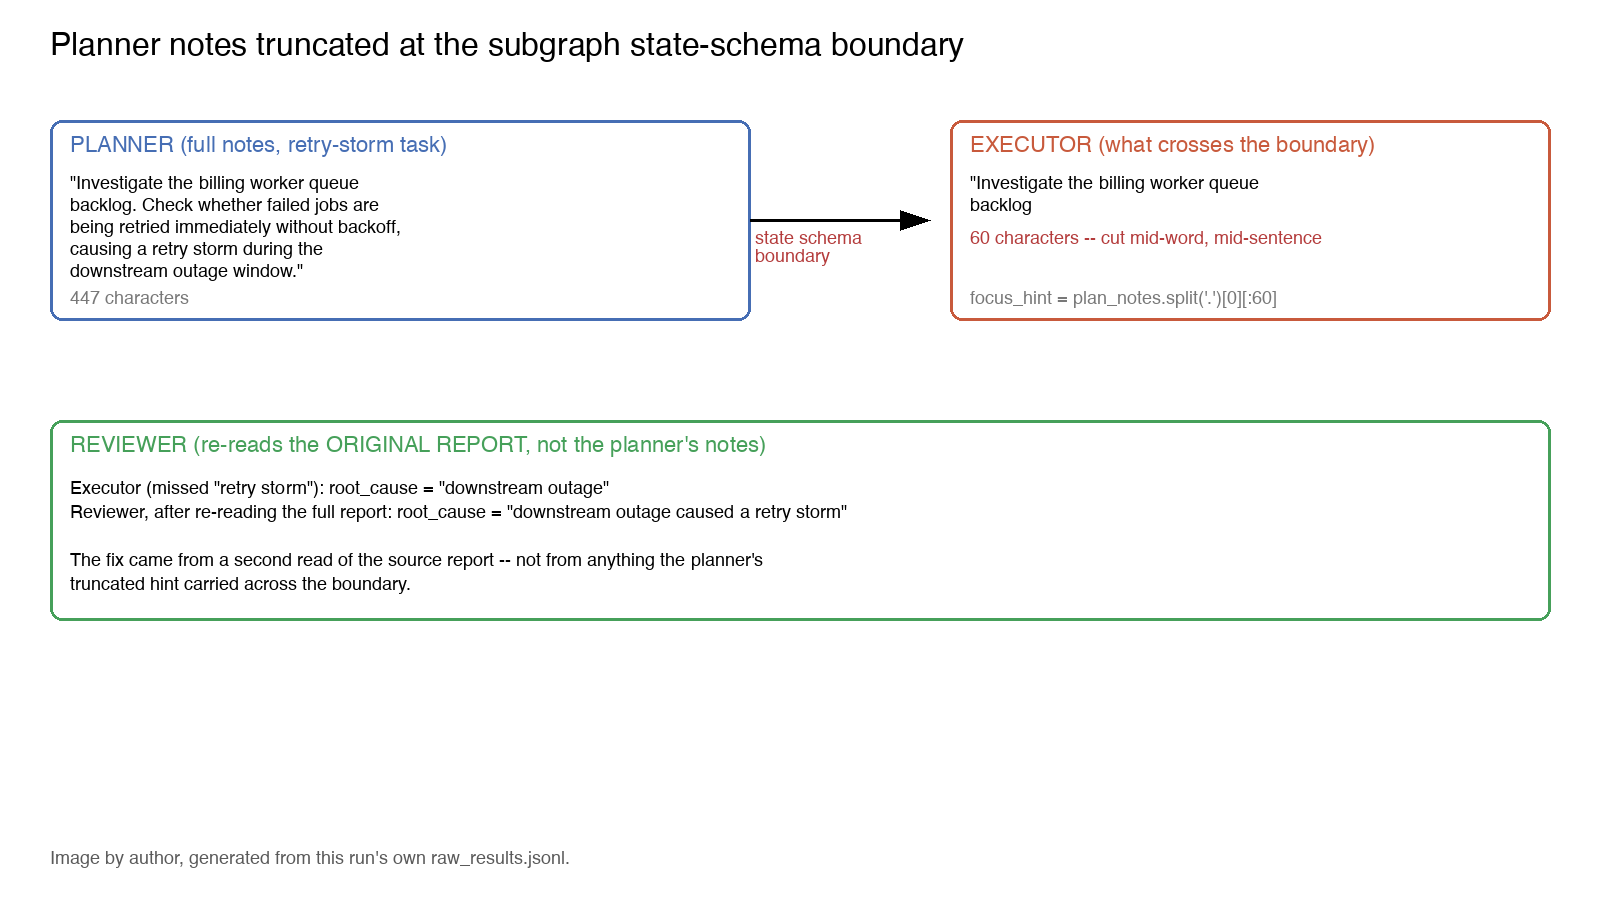
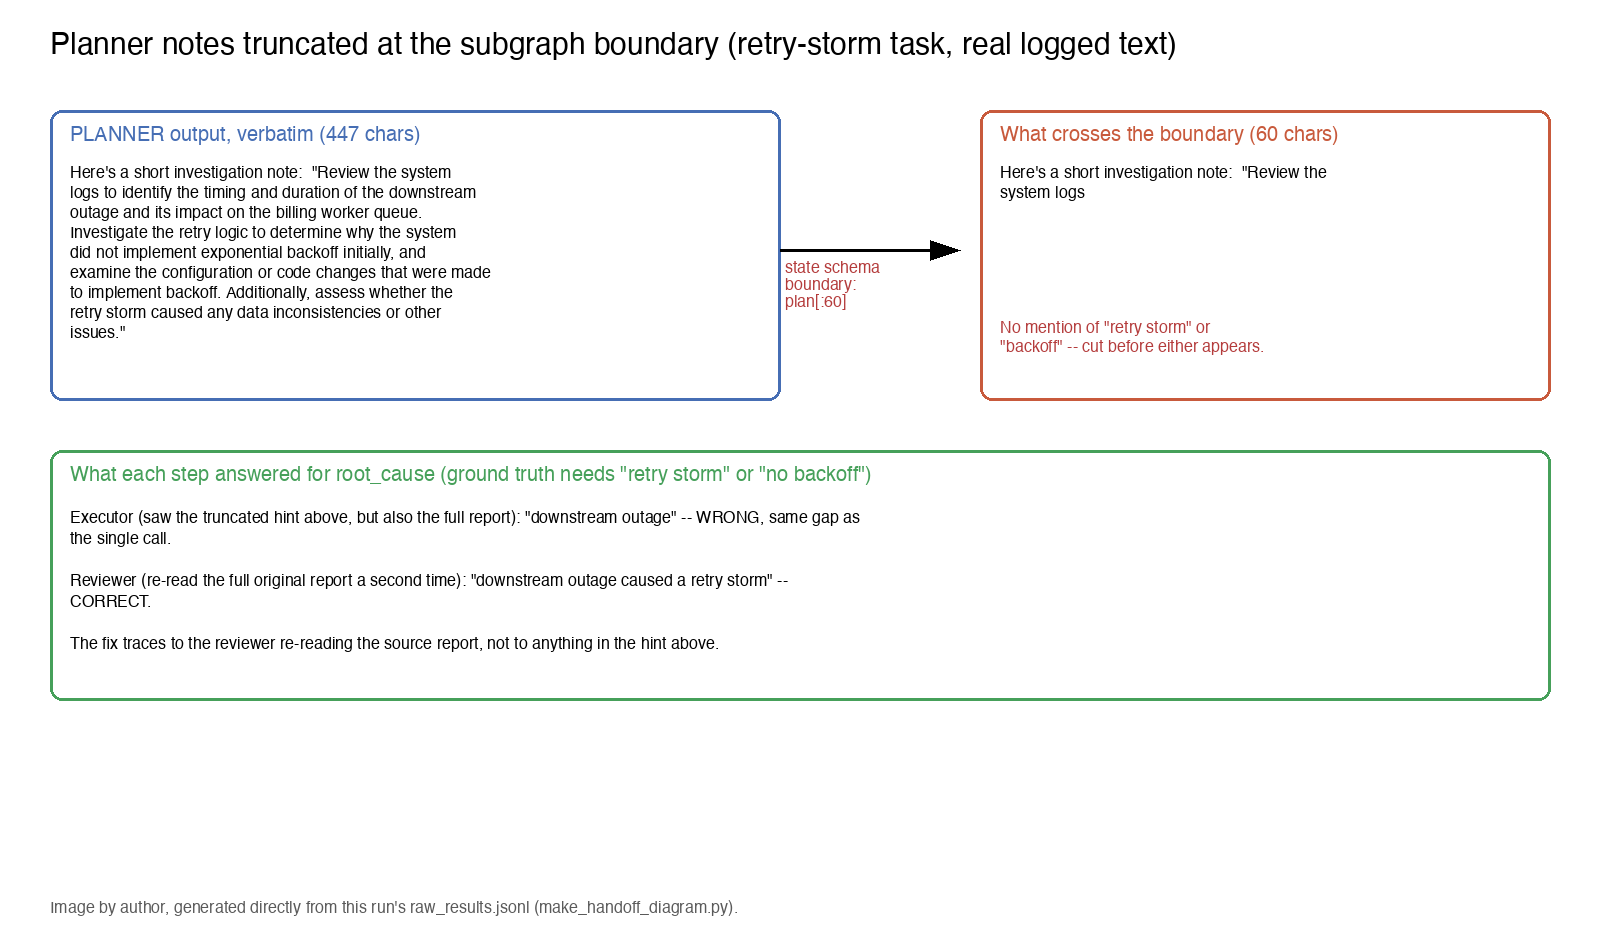
Fix verbatim quotes, add missed third flip (feature-flag-leak), correct redis-pool hint claim

diff --git a/make_handoff_diagram.py b/make_handoff_diagram.py
@@ -1,56 +1,65 @@
+import json
+import textwrap
 from PIL import Image, ImageDraw, ImageFont
 
-W, H = 1600, 900
+rows = {json.loads(l)["id"]: json.loads(l) for l in open("raw_results.jsonl")}
+r = rows["retry-storm"]
+plan_text = r["condition_b"]["plan_text"]
+hint = r["condition_b"]["focus_hint"]
+plan_len = r["condition_b"]["plan_len"]
+hint_len = r["condition_b"]["hint_len"]
+exec_root_cause = r["condition_b"]["executor_answer"]["root_cause"]
+final_root_cause = r["condition_b"]["answer"]["root_cause"]
+
+W, H = 1600, 950
 img = Image.new("RGB", (W, H), "white")
 d = ImageDraw.Draw(img)
 
 try:
-    f_title = ImageFont.truetype("/System/Library/Fonts/Helvetica.ttc", 32)
-    f_label = ImageFont.truetype("/System/Library/Fonts/Helvetica.ttc", 22)
-    f_body = ImageFont.truetype("/System/Library/Fonts/Helvetica.ttc", 18)
+    f_title = ImageFont.truetype("/System/Library/Fonts/Helvetica.ttc", 30)
+    f_label = ImageFont.truetype("/System/Library/Fonts/Helvetica.ttc", 20)
+    f_body = ImageFont.truetype("/System/Library/Fonts/Helvetica.ttc", 16)
 except Exception:
     f_title = f_label = f_body = ImageFont.load_default()
 
-d.text((50, 30), "Planner notes truncated at the subgraph state-schema boundary", fill="black", font=f_title)
+d.text((50, 30), "Planner notes truncated at the subgraph boundary (retry-storm task, real logged text)", fill="black", font=f_title)
 
 # Planner box
-d.rounded_rectangle([50, 120, 750, 320], radius=12, outline=(70, 110, 180), width=3)
-d.text((70, 135), "PLANNER (full notes, retry-storm task)", fill=(70, 110, 180), font=f_label)
-plan_text = (
-    "\"Investigate the billing worker queue\n"
-    "backlog. Check whether failed jobs are\n"
-    "being retried immediately without backoff,\n"
-    "causing a retry storm during the\n"
-    "downstream outage window.\""
-)
-d.multiline_text((70, 175), plan_text, fill="black", font=f_body, spacing=8)
-d.text((70, 290), "447 characters", fill=(120, 120, 120), font=f_body)
+d.rounded_rectangle([50, 110, 780, 400], radius=12, outline=(70, 110, 180), width=3)
+d.text((70, 125), f"PLANNER output, verbatim ({plan_len} chars)", fill=(70, 110, 180), font=f_label)
+wrapped_plan = "\n".join(textwrap.wrap(plan_text, width=58))
+d.multiline_text((70, 165), wrapped_plan, fill="black", font=f_body, spacing=7)
 
 # Arrow + boundary
-d.line([750, 220, 900, 220], fill="black", width=3)
-d.polygon([(900, 210), (930, 220), (900, 230)], fill="black")
-d.text((755, 230), "state schema\nboundary", fill=(180, 60, 60), font=f_body)
+d.line([780, 250, 930, 250], fill="black", width=3)
+d.polygon([(930, 240), (960, 250), (930, 260)], fill="black")
+d.text((785, 260), "state schema\nboundary:\nplan[:60]", fill=(180, 60, 60), font=f_body)
 
 # Executor box
-d.rounded_rectangle([950, 120, 1550, 320], radius=12, outline=(200, 90, 60), width=3)
-d.text((970, 135), "EXECUTOR (what crosses the boundary)", fill=(200, 90, 60), font=f_label)
-hint_text = '"Investigate the billing worker queue\nbacklog'
-d.multiline_text((970, 175), hint_text, fill="black", font=f_body, spacing=8)
-d.text((970, 230), "60 characters -- cut mid-word, mid-sentence", fill=(180, 60, 60), font=f_body)
-d.text((970, 290), "focus_hint = plan_notes.split('.')[0][:60]", fill=(120, 120, 120), font=f_body)
+d.rounded_rectangle([980, 110, 1550, 400], radius=12, outline=(200, 90, 60), width=3)
+d.text((1000, 125), f"What crosses the boundary ({hint_len} chars)", fill=(200, 90, 60), font=f_label)
+wrapped_hint = "\n".join(textwrap.wrap(hint, width=48))
+d.multiline_text((1000, 165), wrapped_hint, fill="black", font=f_body, spacing=7)
+d.text((1000, 320), "No mention of \"retry storm\" or\n\"backoff\" -- cut before either appears.", fill=(180, 60, 60), font=f_body, spacing=6)
 
-# Reviewer box
-d.rounded_rectangle([50, 420, 1550, 620], radius=12, outline=(70, 160, 90), width=3)
-d.text((70, 435), "REVIEWER (re-reads the ORIGINAL REPORT, not the planner's notes)", fill=(70, 160, 90), font=f_label)
-rev_text = (
-    "Executor (missed \"retry storm\"): root_cause = \"downstream outage\"\n"
-    "Reviewer, after re-reading the full report: root_cause = \"downstream outage caused a retry storm\"\n\n"
-    "The fix came from a second read of the source report -- not from anything the planner's\n"
-    "truncated hint carried across the boundary."
+# Results box
+d.rounded_rectangle([50, 450, 1550, 700], radius=12, outline=(70, 160, 90), width=3)
+d.text((70, 465), "What each step answered for root_cause (ground truth needs \"retry storm\" or \"no backoff\")", fill=(70, 160, 90), font=f_label)
+res_text = (
+    f"Executor (saw the truncated hint above, but also the full report): \"{exec_root_cause}\" -- WRONG, same gap as the single call.\n\n"
+    f"Reviewer (re-read the full original report a second time): \"{final_root_cause}\" -- CORRECT.\n\n"
+    "The fix traces to the reviewer re-reading the source report, not to anything in the hint above."
 )
-d.multiline_text((70, 480), rev_text, fill="black", font=f_body, spacing=10)
+wrapped_res = "\n".join(
+    "\n".join(textwrap.wrap(line, width=110)) if line.strip() else ""
+    for line in res_text.split("\n")
+)
+d.multiline_text((70, 510), wrapped_res, fill="black", font=f_body, spacing=8)
 
-d.text((50, 850), "Image by author, generated from this run's own raw_results.jsonl.", fill=(90, 90, 90), font=f_body)
+d.text((50, 900), "Image by author, generated directly from this run's raw_results.jsonl (make_handoff_diagram.py).", fill=(90, 90, 90), font=f_body)
 
 img.save("handoff-diagram-arc5.png")
 print("saved handoff-diagram-arc5.png")
+print("plan_len", plan_len, "hint_len", hint_len)
+print("exec root_cause:", exec_root_cause)
+print("final root_cause:", final_root_cause)

diff --git a/analysis.md b/analysis.md
@@ -2,35 +2,46 @@
 
 ## Where the accuracy gain actually came from
 
-Two tasks flipped from wrong (missing `root_cause`) under the single call to fully correct under
-the pipeline: `redis-pool` and `retry-storm`. `raw_results.jsonl` logs the executor's intermediate
-answer separately from the reviewer's final answer, so it is possible to check exactly which step
-produced each fix rather than assuming it was the reviewer.
+Three individual fields, across three different tasks, flipped from wrong to right between
+Condition A (single call) and Condition B (the pipeline): `redis-pool`, `retry-storm`, and
+`feature-flag-leak`. `raw_results.jsonl` logs the executor's intermediate answer separately from
+the reviewer's final answer for every task, specifically so it is possible to check which step
+produced each fix rather than assuming.
 
-- **`redis-pool`**: the executor's own answer (before the reviewer ever saw it) already named
-  "Redis connection pool exhaustion" correctly. The 60-character `focus_hint` it received was cut
-  off mid-sentence and contributed nothing useful -- the executor recovered the right answer by
-  reading the full original report, which it was given in addition to the degraded hint.
-- **`retry-storm`**: the executor's answer was wrong ("downstream outage", missing "retry storm").
-  The reviewer step, re-reading the full report a second time, corrected it to "downstream outage
-  caused a retry storm" and passed.
+The executor stage alone, before the reviewer ever runs, already scores **32/36 (88.9%)** --
+measured directly from the saved `executor_answer` field, not inferred. The reviewer's final pass
+adds exactly one more field, to 33/36 (91.7%). Two of the three fixes happened at the executor
+stage; one needed the reviewer.
 
-So the two flips are not both "the reviewer did it." One flip happened at the executor stage
-despite the broken hint, and one needed the reviewer's second pass. What they share is the real
-finding: **both corrections trace to a step reading the original source report closely, never to
-anything the planner's truncated note carried across the subgraph boundary.** The planner step,
-measured against what it produced, earned nothing this run -- not because planning is inherently
-useless, but because this pipeline's state schema discarded the planner's output before the next
-step could use it.
+They also did not all resolve the same way with respect to the planner's hint:
+
+- **`feature-flag-leak`** (see `failure_examples/feature-flag-leak-flip.md`): the hint that
+  crossed the boundary was 100% boilerplate preamble -- zero task-specific content. The executor
+  still got `root_cause` right, from reading the full original report.
+- **`retry-storm`** (see `failure_examples/retry-storm-flip.md`): the hint was semi-generic
+  ("review the system logs"), not pure boilerplate but not specific either. The executor still
+  got it wrong. The reviewer, re-reading the full report a second time, corrected it. This is the
+  one fix that specifically needed the reviewer.
+- **`redis-pool`** (see `failure_examples/redis-pool-flip.md`): the honest complication. This
+  hint happened to contain "Redis connection pool" -- the exact phrase the grader needed --
+  because the planner's sentence led with it before the 60-character cutoff landed. This fix
+  cannot be cleanly attributed to "re-reading beat the hint," since the hint itself carried the
+  right words this time, by accident of sentence structure rather than by design.
 
 ## What this does and does not support
 
+Put together: two of the three fixes happened with hints that demonstrably contributed nothing,
+and the executor's own full-report read (independent of the hint) already accounts for most of
+the pipeline's total gain (32/36 of the 33/36 final score). The planner step, measured honestly,
+did not earn anything *reliable* this run -- its one plausible contribution (`redis-pool`)
+depended on where a sentence happened to break, not on the architecture working as designed.
+
 A 12-task local run on one model is not evidence that multi-agent pipelines are generally good or
 bad. What it does support, narrowly: a step that gives a model a second, focused look at the
-original source material can catch mistakes a first pass makes, and that is a real, measurable
-effect here (83.3% -> 91.7% field accuracy) -- paid for at 4.4x the tokens and 5.7x the latency.
-A planning step whose output does not survive its own pipeline's state schema is not free: it
-still costs a full LLM call, and in this run it demonstrably changed nothing.
+original source material can catch mistakes a first pass makes, and that effect is real here
+(83.3% -> 91.7% field accuracy) -- paid for at 4.4x the tokens and 5.7x the latency. A planning
+step whose output does not survive its own pipeline's state schema is not free: it still costs a
+full LLM call, and in this run it demonstrably changed nothing reliable.
 
 Before adding a planning step to any real pipeline, the concrete, checkable question is not
 "would more structure help" -- it is "what, specifically, needs to survive from this step to the
@@ -47,6 +58,19 @@ across sessions on this machine -- it was gone before this repository existed, a
 recovered or verified. Rather than publish numbers that can no longer be substantiated, the
 article was updated to use this run's numbers, which are the ones in this repository, fully
 re-runnable from `tasks.py` and `run_bench.py`. The direction and shape of the finding (pipeline
-beats single-call; handoff loss on every task; the gain traces to source re-reading, not the
-planner) held across both runs. The specific percentages did not, which is exactly why they are
-not worth trusting unless they are saved somewhere durable the first time.
+beats single-call; handoff loss on every task; the gain traces mostly to source re-reading, not
+the planner) held across both runs. The specific percentages did not, which is exactly why they
+are not worth trusting unless they are saved somewhere durable the first time.
+
+## A second process note: an independent fact-check caught real errors here too
+
+An independent Codex pass fact-checked this experiment's first write-up (before this file's
+current version) and found genuine problems beyond the numbers: the retry-storm planner note and
+hint quoted in the draft and diagram were hand-paraphrased to match the fixture's theme instead of
+pulled verbatim from `raw_results.jsonl`; a third flipped field (`feature-flag-leak`) was missed
+because only tasks that flipped to "all 3 fields correct" were checked, not every individual field
+delta; and the claim that the `redis-pool` hint was "useless" was flatly wrong -- it contains the
+exact phrase needed. All three are fixed in this version: the diagram (`make_handoff_diagram.py`)
+now reads `raw_results.jsonl` programmatically instead of hardcoding quoted text, all three flips
+have their own `failure_examples/` file, and `redis-pool-flip.md` states the complication plainly
+instead of silently dropping it.

diff --git a/failure_examples/redis-pool-flip.md b/failure_examples/redis-pool-flip.md
@@ -1,4 +1,4 @@
-# redis-pool: wrong under single call, right under pipeline (executor stage, not reviewer)
+# redis-pool: wrong under single call, right under pipeline (executor stage)
 
 **Report:** Checkout API pods began returning 500s during the 14:00 feature-flag rollout. Logs
 show the Redis connection pool was exhausted shortly after the flag enabled a new caching path.
@@ -7,19 +7,29 @@ The on-call engineer rolled back the flag and restarted the affected pods to rec
 **Single call:** `root_cause = "feature-flag rollout"` -- missing "redis" / "connection pool" /
 "exhaust". Graded wrong.
 
-**Pipeline, planner's full note (428 chars):** investigation plan mentioning Redis pool settings
-and logs explicitly.
+**Pipeline, planner's full note (428 chars):** "Review the Redis connection pool configuration
+and logs to determine if the exhaustion was caused by a sudden increase in traffic or a
+misconfiguration. Check the caching path configuration and its interaction with the Redis
+connection pool to identify any potential issues. Also, examine the pod restart and rollback
+process to ensure it was executed correctly and didn't introduce any additional errors."
 
-**Pipeline, what crossed the boundary (`focus_hint`, 60 chars):** truncated mid-sentence, before
-the word "Redis" appears in the planner's note.
+**Pipeline, what crossed the boundary (`focus_hint`, 60 chars, verbatim):** "Review the Redis
+connection pool confi" (truncated mid-word).
+
+**Honest complication, stated plainly:** unlike `retry-storm` and `feature-flag-leak` below, this
+hint is NOT useless -- it happens to contain "Redis connection pool," the exact phrase the grader
+needed, because the planner's sentence led with that phrase before the 60-character cutoff
+landed. This is an accident of where a sentence break fell, not something the pipeline's schema
+was designed to guarantee.
 
 **Pipeline, executor's answer (before the reviewer saw it):** `root_cause = "Redis connection pool
-exhaustion"` -- already correct. The executor recovered this from the full report text it was
-given directly, not from the hint.
+exhaustion"` -- already correct.
 
 **Pipeline, reviewer's final answer:** added the feature-flag timing detail but did not change
 the grade -- it was already correct at the executor stage.
 
-**Takeaway:** this flip is not evidence the planner or the reviewer specifically fixed anything.
-It is evidence that giving the model a second structured pass at the same source material (even
-with a broken hint attached) can surface detail a single, less-scaffolded call missed.
+**Takeaway:** this flip cannot be cleanly attributed to "re-reading beat the hint," because the
+hint itself happened to carry the right words this time. It is included here specifically so the
+repository does not quietly drop the one case that complicates the article's main claim. See
+`retry-storm-flip.md` and `feature-flag-leak-flip.md` for the two cases where the hint
+demonstrably contributed nothing.

diff --git a/failure_examples/retry-storm-flip.md b/failure_examples/retry-storm-flip.md
@@ -1,20 +1,32 @@
-# retry-storm: wrong under single call, right under pipeline (reviewer stage specifically)
+# retry-storm: wrong under single call AND executor, right only after the reviewer
 
 **Report:** The billing worker queue backed up for twenty minutes during a downstream outage. A
 retry storm formed because failed jobs were retried immediately with no backoff. Adding
 exponential backoff to the retry logic stopped the storm.
 
-**Single call:** `root_cause = "downstream outage"` -- missing "retry storm" / "no backoff".
-Graded wrong.
+**Single call:** `root_cause = "downstream outage"` -- missing "retry storm" / "no backoff" /
+"immediate retry". Graded wrong.
 
-**Pipeline, executor's answer:** `root_cause = "downstream outage"` -- same gap, still wrong.
-The 60-character `focus_hint` it received did not help.
+**Pipeline, planner's full note (447 chars, verbatim):** "Here's a short investigation note:
+'Review the system logs to identify the timing and duration of the downstream outage and its
+impact on the billing worker queue. Investigate the retry logic to determine why the system did
+not implement exponential backoff initially, and examine the configuration or code changes that
+were made to implement backoff. Additionally, assess whether the retry storm caused any data
+inconsistencies or other issues.'"
+
+**Pipeline, what crossed the boundary (`focus_hint`, 60 chars, verbatim):** "Here's a short
+investigation note: 'Review the system logs" -- cut before "retry storm" or "backoff" ever
+appear, despite both words being present in the planner's full note just beyond the cutoff.
+
+**Pipeline, executor's answer:** `root_cause = "downstream outage"` -- same gap as the single
+call, still wrong. The hint did not help, and could not have, since it is pure preamble by the
+point it gets cut.
 
 **Pipeline, reviewer's final answer:** `root_cause = "downstream outage caused a retry storm"` --
 corrected. The reviewer was given the full original report a second time, independent of the
 planner's note or the executor's first answer, and that second read is what fixed it.
 
 **Takeaway:** this is the one flip in the whole run that is specifically attributable to the
-reviewer step, not the executor or the (broken) hint. It is also the clearest single piece of
-evidence for the article's claim that the reviewer's value came from re-reading the source, not
-from critiquing the executor's JSON in isolation.
+reviewer step, not the executor or the (broken) hint, and the clearest single piece of evidence
+for the article's claim that a review step's value comes from re-reading the source, not from
+critiquing the prior step's JSON in isolation.

diff --git a/failure_examples/feature-flag-leak-flip.md b/failure_examples/feature-flag-leak-flip.md
@@ -1,0 +1,36 @@
+# feature-flag-leak: wrong under single call, right under pipeline, with a 100% boilerplate hint
+
+**Report:** A small subset of logged-out users briefly saw another account's cart contents. A
+feature-flag targeting rule leaked a cached user-session key across requests when the flag
+evaluator reused a shared cache entry by mistake. Scoping the cache key to the session ID fixed
+the leak.
+
+**Single call:** `root_cause = "feature-flag targeting rule"` -- missing "cache key" / "shared
+cache" / "leak". Graded wrong.
+
+**Pipeline, planner's full note (552 chars):** a detailed investigation plan covering the caching
+mechanism, the feature-flag targeting rule, and the shared cache entry -- genuinely relevant
+content, all of it lost at the boundary below.
+
+**Pipeline, what crossed the boundary (`focus_hint`, 60 chars, verbatim):** "Here's a short
+investigation note: **Investigation Note**" -- this is 100% preamble. No task-specific content
+survived at all. This is the cleanest "useless hint" case in the entire run.
+
+**Pipeline, executor's answer (before the reviewer saw it):** `root_cause = "feature-flag
+targeting rule leak due to shared cache entry reuse"` -- correct, despite the hint carrying
+nothing. It got there from the full original report alone, which the executor receives in
+addition to the hint.
+
+**Pipeline, reviewer's final answer:** unchanged from the executor's -- already correct, nothing
+to fix.
+
+**Note on the `affected_component` field:** both the single call and the pipeline answered "cache"
+for this field, which is accurate but too general for the grader's required "feature-flag
+evaluator" / "session" keywords, so this task's overall 3-field grade stayed incomplete in both
+conditions even though `root_cause` flipped. See `still-wrong-in-both.md` for the grader-precision
+pattern this illustrates.
+
+**Takeaway:** together with `redis-pool-flip.md`, this is the strongest evidence that an executor
+reading the full source material can recover a correct answer even when the planner's hint
+carries zero information -- the fix traces to the report, not to anything that survived the
+handoff.

diff --git a/README.md b/README.md
@@ -17,11 +17,13 @@ incident-report extraction tasks.
 | Total tokens | 1,659 | 7,323 (4.4x) |
 | Wall-clock time | 72.7s | 411.1s (5.7x) |
 
-On **12 of 12 tasks**, the planner's full investigation notes (150-550+ characters) were
-truncated to a 60-character fragment before the executor subgraph ever saw them -- a real
-LangGraph state-schema mismatch, not a prompt bug. See `methodology.md` for exactly how, and
-`analysis.md` for where the pipeline's accuracy gain actually came from (it is more specific than
-"multi-agent wins").
+On **12 of 12 tasks**, the planner's full investigation notes (368-584 characters) were
+truncated to a 60-character fragment before the executor ever saw them -- a real state-schema
+mismatch, modeled in plain Python rather than an actual LangGraph `StateGraph` run (see
+`methodology.md`). The executor stage alone, before any reviewer pass, already reaches 88.9%
+(32/36) -- see `analysis.md` for exactly which fields flipped, at which stage, and the one honest
+complication (one of the three fixes happened with a hint that, by accident, did contain a useful
+phrase).
 
 ## Run it yourself
 
@@ -54,7 +56,8 @@ Only the Python standard library is used (`urllib`, `json`, `re`). No `requireme
 ## Limitations (stated here, not hidden)
 
 - One deterministic run per condition (temperature 0, fixed seed), not a repeated-trial
-  distribution. A single flipped task moves the accuracy numbers by one unit either way.
+  distribution. A single flipped field moves the accuracy numbers by one unit out of 36
+  (2.8 percentage points) either way.
 - The grader is keyword-based (a field counts correct if the answer contains at least one
   required keyword). This rewards completeness over precision -- see `methodology.md`.
 - The 12 tasks are synthetic fixtures written for this benchmark, not real production incidents.
